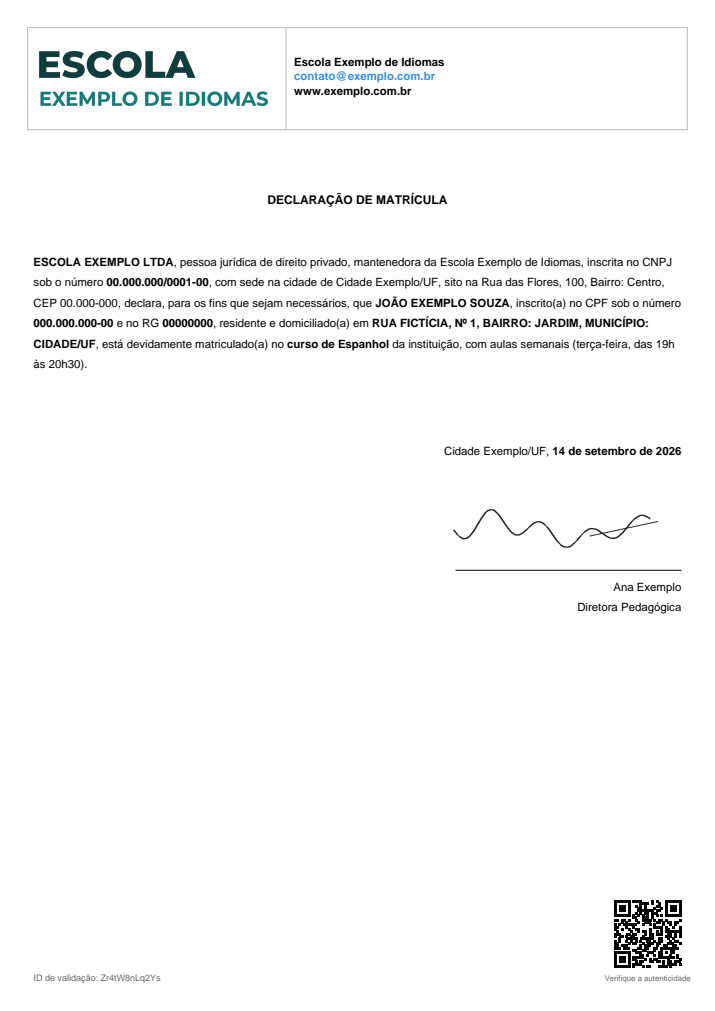
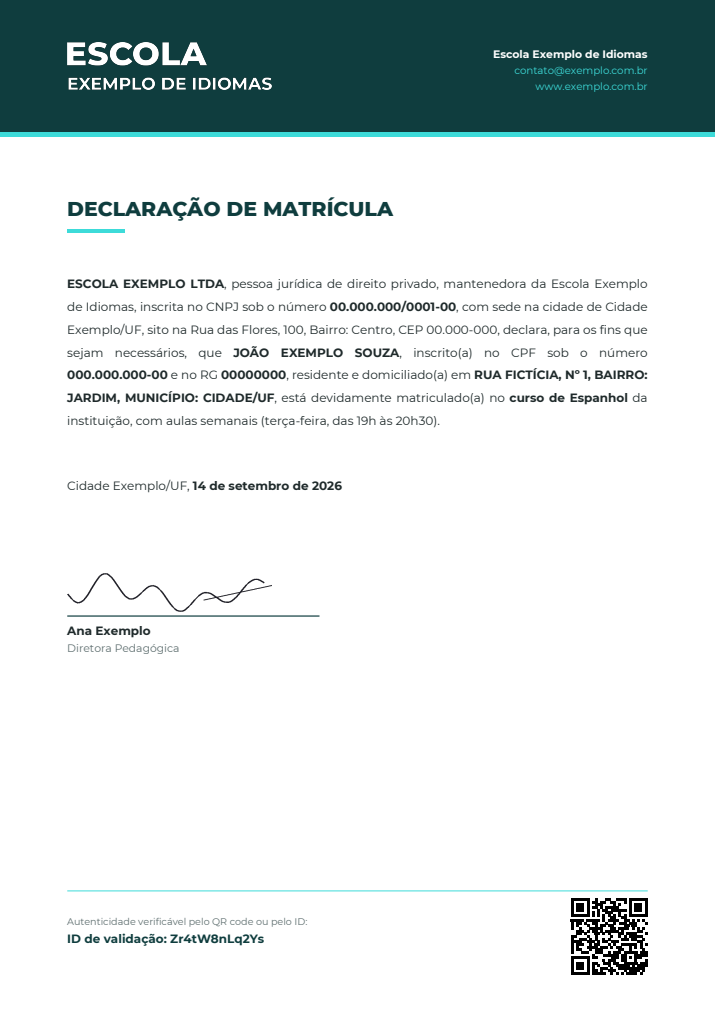
Declarações com a identidade visual do portfólio
Faixa verde-petróleo com logo e contato, título em destaque, corpo em
Montserrat, assinatura à esquerda e rodapé com ID e QR. Texto inalterado.

Claude-Session: https://claude.ai/code/session_011JWWPuooP7RffwkFUfvhdv

diff --git a/python/src/templates/declaracao_matricula.py b/python/src/templates/declaracao_matricula.py
@@ -8,22 +8,22 @@ o PDF é só para o emissor e nunca deve ser servido pela rota pública.
 """
 from xml.sax.saxutils import escape
 
-from reportlab.lib.colors import HexColor, black
+from reportlab.lib.colors import white
+from reportlab.pdfbase.pdfmetrics import registerFontFamily
 from reportlab.lib.pagesizes import A4
 from reportlab.lib.styles import ParagraphStyle
 from reportlab.platypus import Paragraph
 
 from ..qr import draw_qr
+from .certificado_curso import ACCENT, DEEP, MUTED, TEXT  # também registra a Montserrat
 
 NOME = "Declaração de matrícula"
 PAGE_SIZE = A4
 REQUIRED = ("nome", "curso", "cpf", "rg", "endereco")
 
-LINK = HexColor("#3B8FD9")
-GRID = HexColor("#BBBBBB")
-MUTED = HexColor("#666666")
-
-BODY = ParagraphStyle("body", fontName="Helvetica", fontSize=9.5, leading=17)
+registerFontFamily("Montserrat-Regular", normal="Montserrat-Regular", bold="Montserrat-Bold")  # <b> no Paragraph
+BODY = ParagraphStyle("body", fontName="Montserrat-Regular", fontSize=10, leading=19,
+                      textColor=TEXT, alignment=4)
 
 
 def _b(value):
@@ -59,53 +59,75 @@ def draw(c, record, issuer):
 
 def draw_declaracao(c, record, issuer, titulo, abertura, situacao):
     width, height = PAGE_SIZE
-    left, right = 28, width - 28
+    left, right = 56, width - 56
 
-    # Cabeçalho: logo à esquerda, contato à direita
-    top, box_h, split = height - 23, 85, 238
-    c.setStrokeColor(GRID)
-    c.setLineWidth(0.6)
-    c.rect(left - 5, top - box_h, right - left + 10, box_h)
-    c.line(split, top, split, top - box_h)
-    if issuer.get("logo"):
-        c.drawImage(issuer["logo"], left + 5, top - box_h + 10, split - left - 20, box_h - 20,
-                    preserveAspectRatio=True, mask="auto")
-    c.setFillColor(black)
-    c.setFont("Helvetica-Bold", 9.5)
-    c.drawString(split + 7, top - 32, issuer["nome"])
-    c.setFillColor(LINK)
-    c.drawString(split + 7, top - 44, issuer.get("email", ""))
-    c.setFillColor(black)
-    c.drawString(split + 7, top - 56, issuer.get("site", ""))
+    # Faixa superior: logo branco à esquerda, contato à direita
+    band = height - 110
+    c.setFillColor(DEEP)
+    c.rect(0, band, width, 110, stroke=0, fill=1)
+    c.setFillColor(ACCENT)
+    c.rect(0, band - 4, width, 4, stroke=0, fill=1)
+    if issuer.get("logo_branco"):
+        c.drawImage(issuer["logo_branco"], left, band + 25, 170, 60,
+                    preserveAspectRatio=True, anchor="w", mask="auto")
+    else:
+        c.setFillColor(white)
+        c.setFont("Montserrat-Bold", 16)
+        c.drawString(left, band + 48, issuer["nome"])
+    c.setFillColor(white)
+    c.setFont("Montserrat-Bold", 9)
+    c.drawRightString(right, band + 62, issuer["nome"])
+    c.setFillColor(ACCENT)
+    c.setFont("Montserrat-Regular", 8.5)
+    c.drawRightString(right, band + 48, issuer.get("email", ""))
+    c.drawRightString(right, band + 35, issuer.get("site", ""))
 
-    c.setFont("Helvetica-Bold", 10)
-    c.drawCentredString(width / 2, height - 170, titulo)
+    # Título à esquerda, com traço de destaque
+    c.setFillColor(DEEP)
+    c.setFont("Montserrat-ExtraBold", 17)
+    c.drawString(left, band - 70, titulo)
+    c.setFillColor(ACCENT)
+    c.rect(left, band - 84, 48, 3, stroke=0, fill=1)
 
     p = Paragraph(body_text(record, issuer, abertura, situacao), BODY)
     _, h = p.wrap(right - left, 400)
-    p.drawOn(c, left, height - 212 - h)
+    top = band - 120
+    p.drawOn(c, left, top - h)
 
-    # "Cidade/UF, " normal + data em negrito, alinhados à direita
-    date_text = record["data_emissao_extenso"]
-    c.setFont("Helvetica", 9.5)
-    c.drawRightString(right - c.stringWidth(date_text, "Helvetica-Bold", 9.5), 463, f"{issuer['cidade']}, ")
-    c.setFont("Helvetica-Bold", 9.5)
-    c.drawRightString(right, 463, date_text)
+    # "Cidade/UF, " + data em negrito, logo abaixo do texto
+    t = c.beginText(left, top - h - 45)
+    t.setFillColor(TEXT)
+    t.setFont("Montserrat-Regular", 10)
+    t.textOut(f"{issuer['cidade']}, ")
+    t.setFont("Montserrat-Bold", 10)
+    t.textOut(record["data_emissao_extenso"])
+    c.drawText(t)
 
-    # Assinatura (imagem opcional, fora do repositório)
+    # Assinatura (imagem opcional, fora do repositório), à esquerda
+    sig_y = top - h - 150
     if issuer.get("assinatura"):
-        c.drawImage(issuer["assinatura"], right - 190, 372, 170, 60, preserveAspectRatio=True, mask="auto")
-    c.setStrokeColor(black)
-    c.line(right - 188, 367, right, 367)
-    c.setFont("Helvetica", 9.5)
-    c.drawRightString(right, 350, issuer.get("signatario", ""))
-    c.drawRightString(right, 333, issuer.get("cargo", ""))
-
+        c.drawImage(issuer["assinatura"], left, sig_y + 4, 170, 60,
+                    preserveAspectRatio=True, anchor="sw", mask="auto")
+    c.setStrokeColor(DEEP)
+    c.setLineWidth(1)
+    c.line(left, sig_y, left + 210, sig_y)
+    c.setFillColor(TEXT)
+    c.setFont("Montserrat-Bold", 10)
+    c.drawString(left, sig_y - 16, issuer.get("signatario", ""))
     c.setFillColor(MUTED)
-    c.setFont("Helvetica", 7.5)
-    c.drawString(left, 25, f"ID de validação: {record['id']}")
+    c.setFont("Montserrat-Regular", 9)
+    c.drawString(left, sig_y - 30, issuer.get("cargo", ""))
+
+    # Rodapé: ID à esquerda, QR à direita
+    c.setStrokeColor(ACCENT)
+    c.setLineWidth(0.8)
+    c.line(left, 100, right, 100)
+    c.setFillColor(MUTED)
+    c.setFont("Montserrat-Regular", 8)
+    c.drawString(left, 72, "Autenticidade verificável pelo QR code ou pelo ID:")
+    c.setFillColor(DEEP)
+    c.setFont("Montserrat-Bold", 10)
+    c.drawString(left, 57, f"ID de validação: {record['id']}")
 
     if record.get("validacao_url"):
-        draw_qr(c, record["validacao_url"], right - 56, 36, 56)
-        c.setFont("Helvetica", 6.5)
-        c.drawCentredString(right - 28, 25, "Verifique a autenticidade")
+        draw_qr(c, record["validacao_url"], right - 64, 30, 64)
